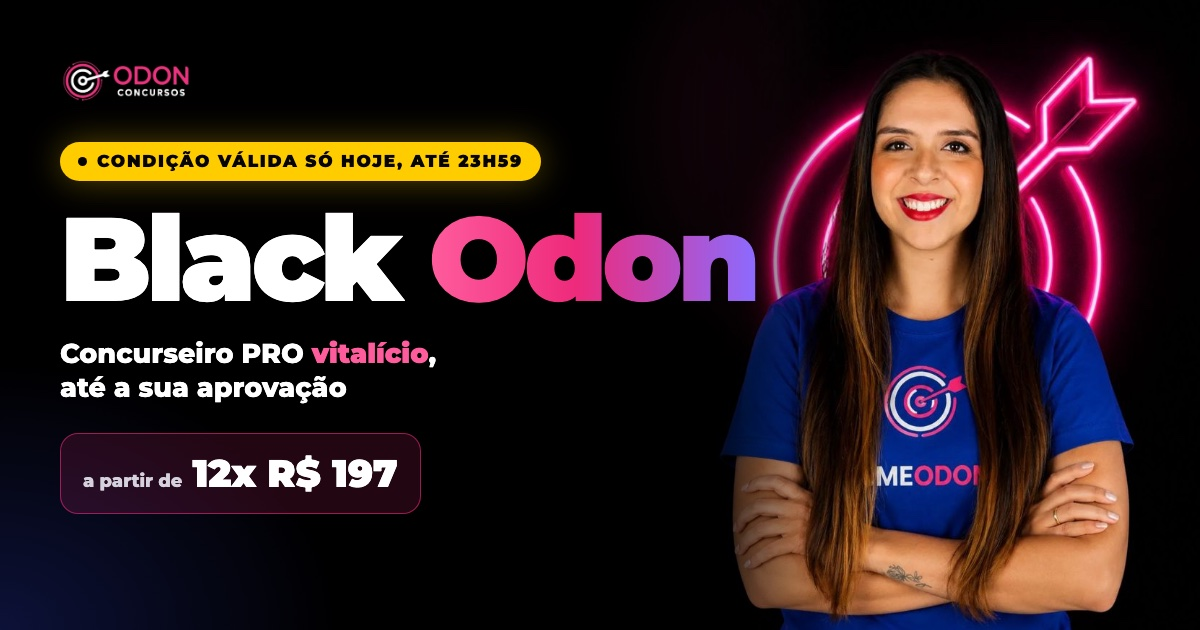
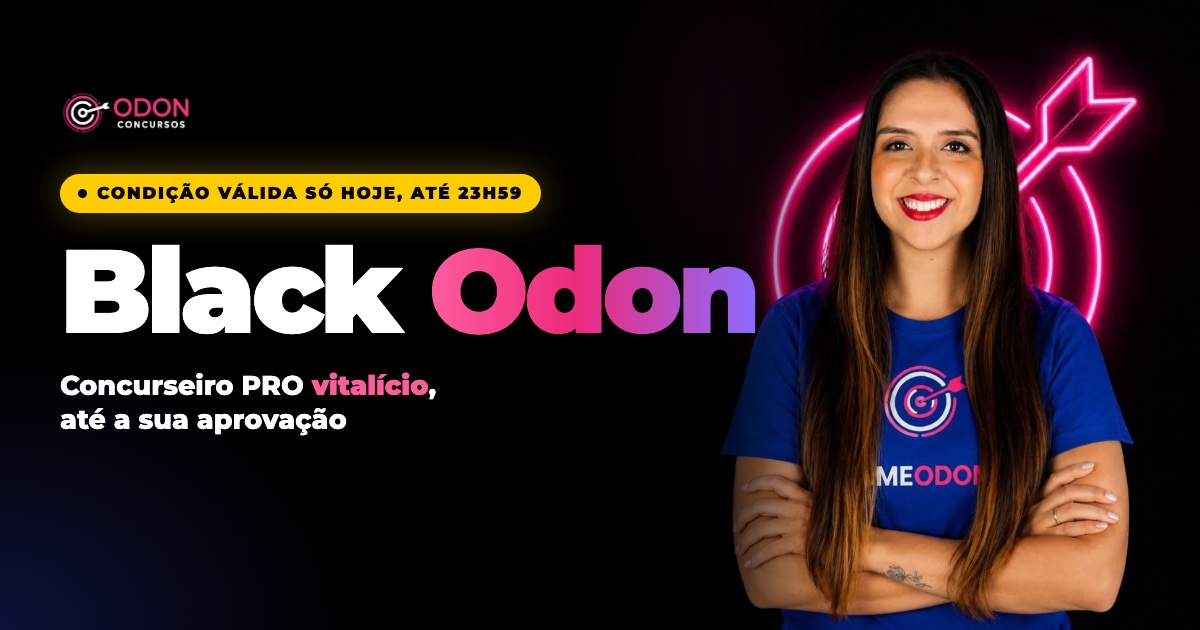
LP Black Odon: prévia de link sem preço

Changed region(s): [[0.0308, 0.0905, 0.6475, 0.8143]]

diff --git a/lp/concurso/black-odon/index.html b/lp/concurso/black-odon/index.html
@@ -8,12 +8,12 @@
 <meta name="supported-color-schemes" content="light">
 <meta name="theme-color" content="#050505">
 <title>Black Odon · Concurseiro PRO vitalício</title>
-<meta name="description" content="Concurseiro PRO + OdonQuestões vitalício, até a sua aprovação. Três planos, preço válido só hoje até 23h59.">
+<meta name="description" content="Concurseiro PRO + OdonQuestões vitalício, até a sua aprovação. Condição válida só hoje, até 23h59.">
 <meta property="og:title" content="Black Odon · só hoje, até 23h59">
-<meta property="og:description" content="Concurseiro PRO + OdonQuestões vitalício, até a sua aprovação. A partir de 12x R$ 197. Condição válida só hoje.">
+<meta property="og:description" content="Concurseiro PRO + OdonQuestões vitalício, até a sua aprovação. Condição válida só hoje, até 23h59.">
 <meta property="og:type" content="website">
 <meta property="og:url" content="https://mkt.odonconcursospage.com/lp/concurso/black-odon/">
-<meta property="og:image" content="https://mkt.odonconcursospage.com/lp/concurso/black-odon/og.jpg?v=2">
+<meta property="og:image" content="https://mkt.odonconcursospage.com/lp/concurso/black-odon/og.jpg?v=3">
 <meta property="og:image:width" content="1200">
 <meta property="og:image:height" content="630">
 <meta name="twitter:card" content="summary_large_image">
